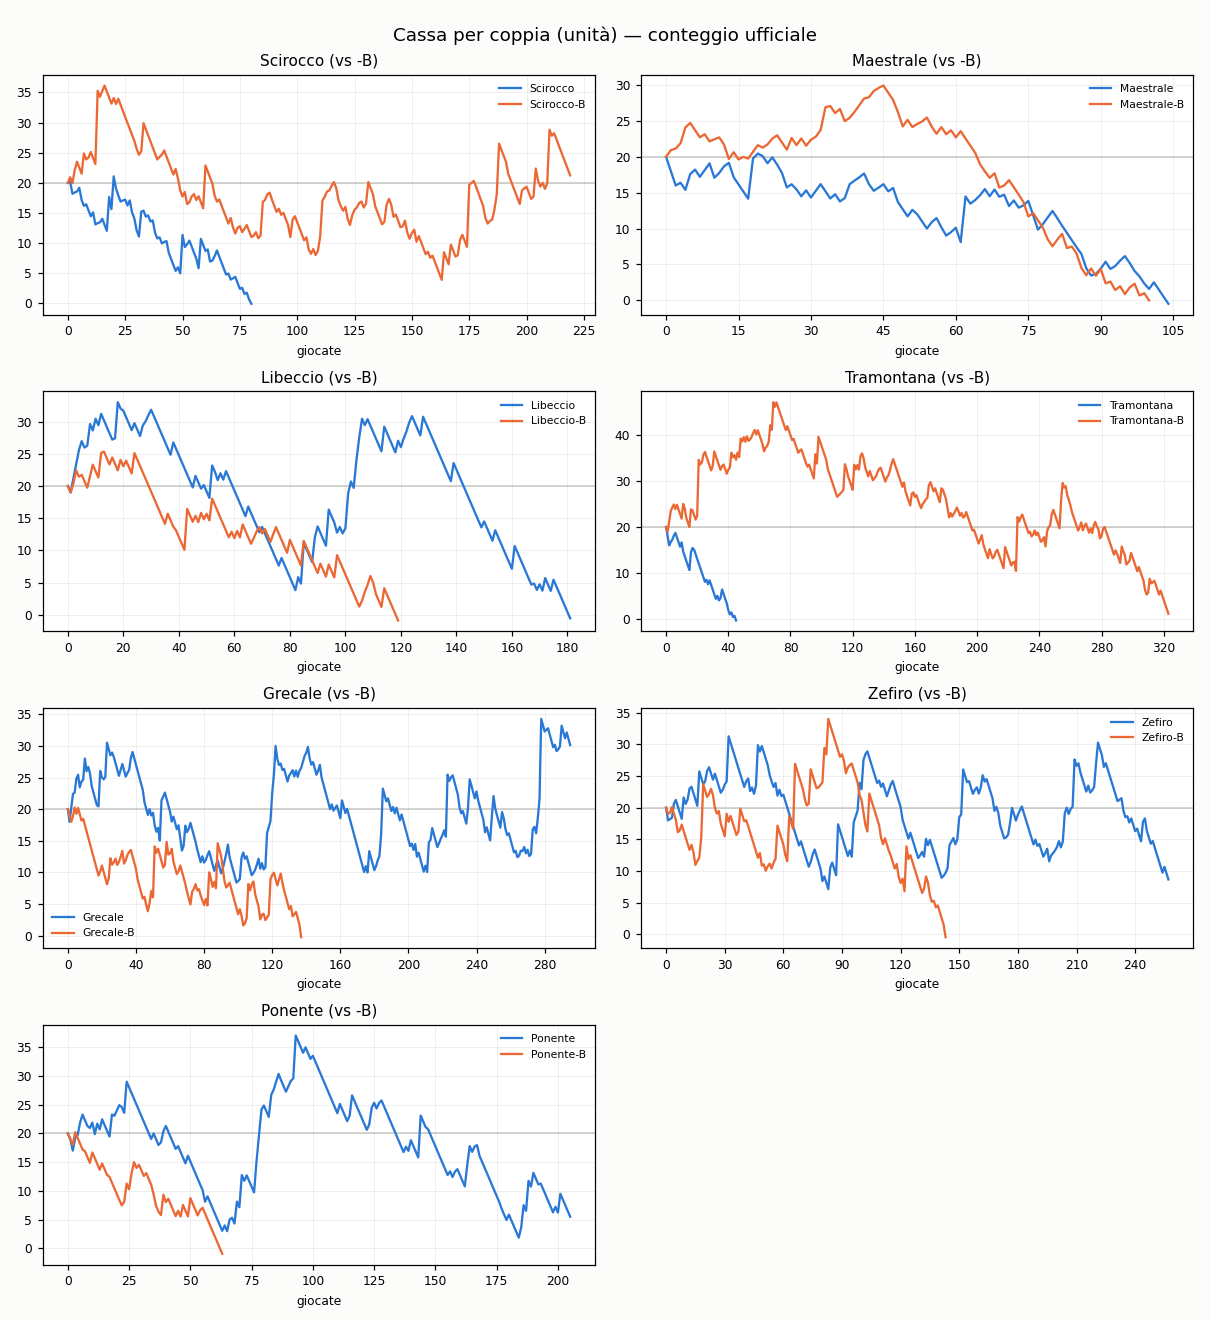
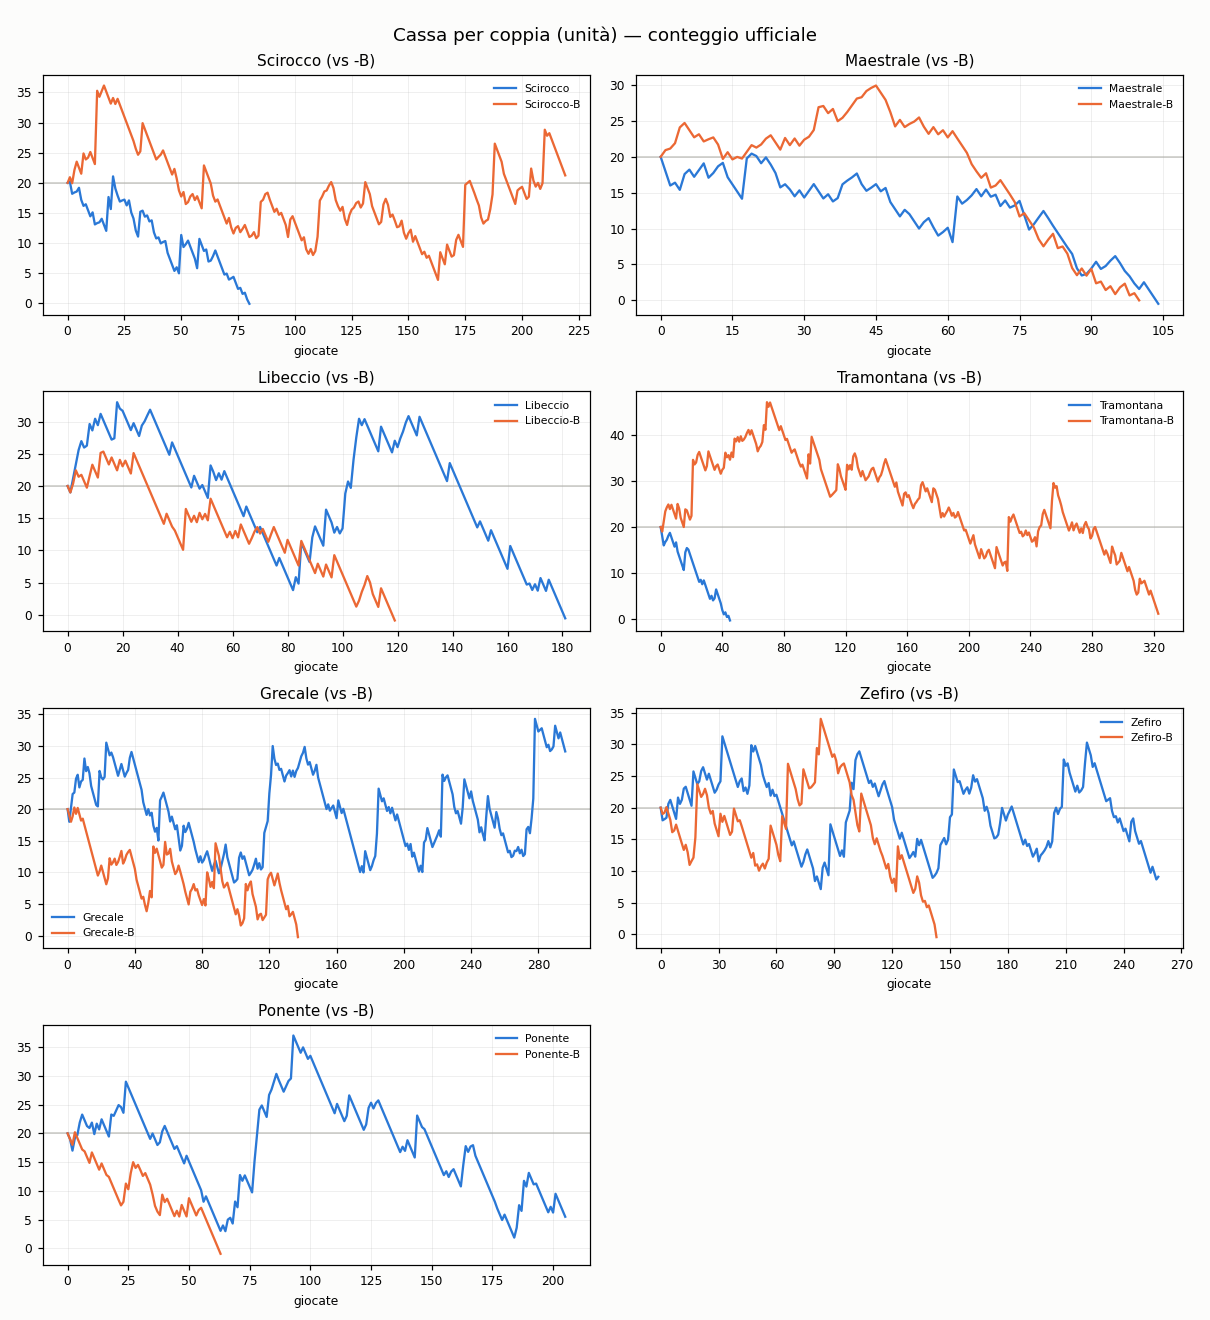
aggiornamento 2026-07-25 16:06 UTC

diff --git a/README.md b/README.md
@@ -37,9 +37,9 @@ scala in unità). Non indichiamo quale.
 
 ## Grafici
 
-![Coppie: dati completi vs ridotti](https://raw.githubusercontent.com/Kitem19/ippica-track-record/main/charts/equity_pairs.png?v=3a5ec017)
+![Coppie: dati completi vs ridotti](https://raw.githubusercontent.com/Kitem19/ippica-track-record/main/charts/equity_pairs.png?v=9eeca2b9)
 
-![Delta per coppia](https://raw.githubusercontent.com/Kitem19/ippica-track-record/main/charts/coppie_delta.png?v=b836e765)
+![Delta per coppia](https://raw.githubusercontent.com/Kitem19/ippica-track-record/main/charts/coppie_delta.png?v=e1bc9483)
 
 ### Come leggere i grafici
 
@@ -60,30 +60,30 @@ _Poche giornate: numeri ancora rumorosi, si conclude a fine fase (31/7)._
 - **Maestrale**: in sostanziale pareggio — troppo presto per dire
 - **Libeccio**: in sostanziale pareggio — troppo presto per dire
 - **Tramontana**: in sostanziale pareggio — troppo presto per dire
-- **Grecale**: dati completi avanti di 30,4u
-- **Zefiro**: dati completi avanti di 9,1u
+- **Grecale**: dati completi avanti di 29,4u
+- **Zefiro**: dati completi avanti di 9,5u
 - **Ponente**: dati completi avanti di 6,4u
 
 ## Classifica (conteggio ufficiale)
 
 | Sistema | Cassa (u) | P/L (u) | Selezioni | Escluse | Stato |
 |---|---|---|---|---|---|
-| Grecale | 30,1 | +10,1 | 295 | 4 | 🟢 |
+| Grecale | 29,1 | +9,1 | 296 | 4 | 🟢 |
 | Scirocco-B | 21,2 | +1,2 | 219 | 0 | 🟢 |
-| Zefiro | 8,7 | -11,3 | 257 | 5 | 🟢 |
+| Zefiro | 9,1 | -10,9 | 258 | 5 | 🟢 |
 | Ponente | 5,5 | -14,5 | 205 | 28 | 🟢 |
-| Tramontana-B | 1,2 | -18,8 | 323 | 4 | ⏸ |
-| Maestrale-B | 0,0 | -20,0 | 100 | 226 | 🛑 |
-| Scirocco | 0,0 | -20,1 | 80 | 235 | 🛑 |
-| Grecale-B | 0,0 | -20,2 | 137 | 165 | 🛑 |
-| Tramontana | 0,0 | -20,3 | 45 | 298 | 🛑 |
+| Tramontana-B | 1,2 | -18,8 | 323 | 5 | ⏸ |
+| Maestrale-B | 0,0 | -20,0 | 100 | 227 | 🛑 |
+| Scirocco | 0,0 | -20,1 | 80 | 236 | 🛑 |
+| Grecale-B | 0,0 | -20,2 | 137 | 166 | 🛑 |
+| Tramontana | 0,0 | -20,3 | 45 | 299 | 🛑 |
 | Zefiro-B | 0,0 | -20,5 | 143 | 65 | 🛑 |
 | Maestrale | 0,0 | -20,5 | 104 | 247 | 🛑 |
-| Libeccio | 0,0 | -20,6 | 181 | 155 | 🛑 |
-| Libeccio-B | 0,0 | -20,9 | 119 | 171 | 🛑 |
-| Ponente-B | 0,0 | -21,0 | 63 | 82 | 🛑 |
+| Libeccio | 0,0 | -20,6 | 181 | 156 | 🛑 |
+| Libeccio-B | 0,0 | -20,9 | 119 | 172 | 🛑 |
+| Ponente-B | 0,0 | -21,0 | 63 | 83 | 🛑 |
 
-_Aggiornato: 25/07 18:01_
+_Aggiornato: 25/07 18:06_
 ---
 *Nessuna delle informazioni qui pubblicate costituisce consiglio di gioco.
 Il gioco può causare dipendenza — 18+.*
